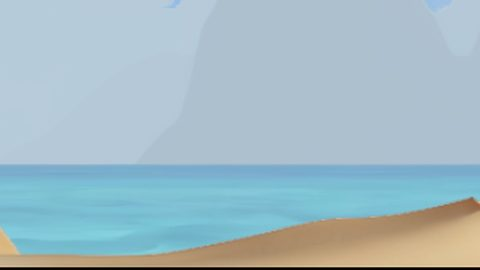
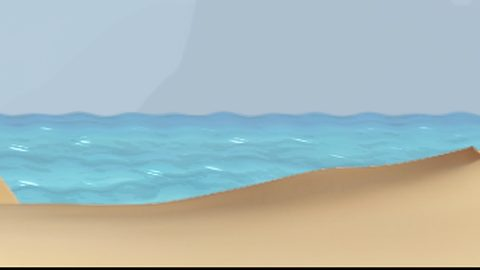
Anim lab: its first view the three detail levels a game may pick, its sliders at Simon's numbers (r462)
Simon on r462: MIRROR's strength 0.15 by default, and the first view
showing what ships: high SWELL + MIRROR + GLINT, medium SWELL + GLINT,
off the painting as it is (the sea an IMAGE layer). The other sliders
start at his r419 15:02 numbers (SWELL speed 0.35, the sun at 0.25,
0.45 wide). The views move up by one: the tools naming a view by index
follow. The runtime levels are r464, after MIRROR ships (r455).

Persona: Mira Ralax
Session: mira-fedora-parallax-239

diff --git a/core/browser-test/webapp/anim-lab.html b/core/browser-test/webapp/anim-lab.html
@@ -25,7 +25,10 @@
 		<summary>What this lab shows</summary>
 		<p id="anim-about">The shader animations r375 proposed for water, written as they would ship (GLSL ES 1.0,
 	sines only, in world units across the layer, so they run on across its tiles), drawn by the real reader compiled to
-	JavaScript. None is in the library yet: pick here, then each one picked is written three times (libGDX, Godot, jME).
+	JavaScript. Each one picked is written three times (libGDX, Godot, jME).
+	<b>Detail levels</b> (the first view, r462: what ships): the sea as a game would draw it at each detail level it
+	may pick, at the sliders' numbers (they start at Simon's, r419): high, SWELL + MIRROR + GLINT; medium, SWELL + GLINT;
+	off, nothing (the painting as it is).
 	<b>The sea</b> is r365's AI beach page, its sea a SHADER layer drawn four ways. <b>WAVE</b> is what ships today: whole
 	rows slide sideways. <b>SWELL</b>: the water moved by two crossing travelling waves, sideways and up and down, so the
 	painted crests bend. <b>GLINT</b>: sun glitter on the painting's own crests (r408): where a pixel is brighter

diff --git a/core/browser-test/launcher/jks/tools2d/parallax/browsertest/AnimLab.java b/core/browser-test/launcher/jks/tools2d/parallax/browsertest/AnimLab.java
@@ -46,15 +46,23 @@ public class AnimLab extends ApplicationAdapter implements LabKit.Clip
 	static final int PANEL_WIDTH = FogLab.FRAME_WIDTH, PANEL_HEIGHT = 200;
 
 	/** What a panel draws its animated layer through. */
-	static final int WAVE = 0, SWELL = 1, GLINT = 2, BOTH = 3, MIRROR = 4, MIRROR_OWN = 5, MIRROR_GLINT = 6;
+	static final int WAVE = 0, SWELL = 1, GLINT = 2, BOTH = 3, MIRROR = 4, MIRROR_OWN = 5, MIRROR_GLINT = 6, NONE = 7;
 	static final String[] EFFECT_NAMES = { "WAVE (ships today)", "SWELL", "GLINT", "SWELL + GLINT", "SWELL + MIRROR as you tuned it (fixed)",
-			"SWELL + MIRROR by the water's colour", "SWELL + MIRROR by the water's colour + GLINT" };
+			"SWELL + MIRROR by the water's colour", "SWELL + MIRROR by the water's colour + GLINT", "nothing" };
 
-	/** The views the choice picks: four panels, two one over the other, or one, close. Each: its hearts (indices into {@link #hearts}). */
-	static final String[] VIEWS = { "sea, all four", "sea: both", "sea: SWELL", "sea: GLINT", "sea: WAVE", "sea: SWELL + MIRROR", "sea: MIRROR or not" };
-	static final int[][] VIEW_HEARTS = { { 0, 1, 2, 3 }, { 3 }, { 1 }, { 2 }, { 0 }, { 7 }, { 4, 5, 6, 7 } };
+	/**
+	 * The views the choice picks: four panels, three, two one over the other, or one, close. Each: its hearts (indices
+	 * into {@link #hearts}). The first (r462, Simon: "should display what is getting exported, aka Nothing, Swell + mirror
+	 * + glint, and swell + glint ... (detail level) so someone using the parallax can hook up different quality level"):
+	 * the sea at each detail level a game may pick, at the sliders' numbers, which start at his (r419, 16 Oct 15:02).
+	 */
+	static final String[] VIEWS = { "detail levels", "sea, all four", "sea: both", "sea: SWELL", "sea: GLINT", "sea: WAVE", "sea: SWELL + MIRROR", "sea: MIRROR or not" };
+	static final int[][] VIEW_HEARTS = { { 8, 9, 10 }, { 0, 1, 2, 3 }, { 3 }, { 1 }, { 2 }, { 0 }, { 7 }, { 4, 5, 6, 7 } };
 	/** Each heart's effect, on the beach's sea. */
-	static final int[] HEART_EFFECTS = { WAVE, SWELL, GLINT, BOTH, SWELL, MIRROR, MIRROR_OWN, MIRROR_GLINT };
+	static final int[] HEART_EFFECTS = { WAVE, SWELL, GLINT, BOTH, SWELL, MIRROR, MIRROR_OWN, MIRROR_GLINT, MIRROR_GLINT, BOTH, NONE };
+	/** The detail levels' hearts, from {@link #FIRST_LEVEL}: their titles, the most a game draws first. */
+	static final int FIRST_LEVEL = 8;
+	static final String[] LEVEL_NAMES = { "high: SWELL + MIRROR + GLINT", "medium: SWELL + GLINT", "off: nothing" };
 	/** The sea strip's water: its bottom {@link #SEA_HORIZON} of its height (rows 300 to 383 of 384 in beach-sea.png), the rest clear. */
 	static final float SEA_HORIZON = 84 / 384f;
 	/**
@@ -71,7 +79,7 @@ public class AnimLab extends ApplicationAdapter implements LabKit.Clip
 	 * Where each heart's frame is held, as a fraction of the frame's height from its bottom, at the panel's middle: the
 	 * beach's sea; MIRROR's views lower, on the water under the horizon.
 	 */
-	static final float[] HEART_FOCUS = { 0.3f, 0.3f, 0.3f, 0.3f, 0.24f, 0.24f, 0.24f, 0.24f };
+	static final float[] HEART_FOCUS = { 0.3f, 0.3f, 0.3f, 0.3f, 0.24f, 0.24f, 0.24f, 0.24f, 0.24f, 0.24f, 0.24f };
 
 	private final Parallax_Heart[] hearts = new Parallax_Heart[HEART_EFFECTS.length];
 	private final ParallaxLayer[] animated = new ParallaxLayer[HEART_EFFECTS.length];
@@ -113,7 +121,7 @@ public class AnimLab extends ApplicationAdapter implements LabKit.Clip
 			// periods (r419): along() runs on only within the effect's period, one wavelength under WAVE, where SWELL's
 			// second wave (5 turns in 8 wavelengths across, 6 and 9 in 10 up) jumped every time the layer wrapped. Its
 			// port gives SWELL these periods of its own.
-			model.kind = Enum_LayerKind.SHADER;
+			model.kind = HEART_EFFECTS[i] == NONE ? Enum_LayerKind.IMAGE : Enum_LayerKind.SHADER;
 			model.shaderEffect = HEART_EFFECTS[i] != WAVE ? Enum_ShaderEffect.FOG : Enum_ShaderEffect.WAVE;
 			OrthographicCamera camera = new OrthographicCamera();
 			camera.setToOrtho(false, WORLD_WIDTH, WORLD_HEIGHT);
@@ -150,16 +158,16 @@ public class AnimLab extends ApplicationAdapter implements LabKit.Clip
 		waveSpeed = LabControls.slider(document, controls, "waveSpeed", "WAVE speed (world units/s)", 0, 2, 0.05f, 0.3f);
 		swellAmplitude = LabControls.slider(document, controls, "swellAmplitude", "SWELL amplitude (world units)", 0, 0.5f, 0.01f, 0.12f);
 		swellWavelength = LabControls.slider(document, controls, "swellWavelength", "SWELL wavelength (world units)", 0.25f, 6, 0.05f, 1.25f);
-		swellSpeed = LabControls.slider(document, controls, "swellSpeed", "SWELL speed (world units/s)", 0, 2, 0.05f, 0.3f);
+		swellSpeed = LabControls.slider(document, controls, "swellSpeed", "SWELL speed (world units/s)", 0, 2, 0.05f, 0.35f);
 		glintStrength = LabControls.slider(document, controls, "glintStrength", "GLINT strength (light added, 0..1.5)", 0, 1.5f, 0.05f, 0.5f);
 		glintSize = LabControls.slider(document, controls, "glintSize", "GLINT size (a glint's length, world units)", 0.2f, 3, 0.05f, 0.8f);
 		glintDensity = LabControls.slider(document, controls, "glintDensity", "GLINT density (how much of the crests is lit, 0.05..1.5)", 0.05f, 1.5f, 0.05f, 0.6f);
 		glintSpeed = LabControls.slider(document, controls, "glintSpeed", "GLINT twinkle (pulses a second: a glint fades in and out in place)", 0, 2, 0.05f, 0.3f);
 		glintCrest = LabControls.slider(document, controls, "glintCrest", "GLINT crest reach (world units: a crest is brighter than the water this far above and below; more, thicker lines)", 0.05f, 0.6f, 0.05f, 0.2f);
-		sunX = LabControls.slider(document, controls, "sunX", "sun's place (0..1 across the view: the glitter's column)", 0, 1, 0.05f, 0.5f);
-		sunWidth = LabControls.slider(document, controls, "sunWidth", "sun's width (of the view: 2 lights it all)", 0.05f, 2, 0.05f, 0.3f);
+		sunX = LabControls.slider(document, controls, "sunX", "sun's place (0..1 across the view: the glitter's column)", 0, 1, 0.05f, 0.25f);
+		sunWidth = LabControls.slider(document, controls, "sunWidth", "sun's width (of the view: 2 lights it all)", 0.05f, 2, 0.05f, 0.45f);
 		Element mirrors = LabControls.section(document, controls, "MIRROR (the whole sea a mirror of the sky, like polished metal: views 'sea: SWELL + MIRROR' and 'sea: MIRROR or not')");
-		mirrorStrength = LabControls.slider(document, mirrors, "mirrorStrength", "strength (how much of the water is the mirrored sky: 1 all of it)", 0, 1, 0.05f, 0.5f);
+		mirrorStrength = LabControls.slider(document, mirrors, "mirrorStrength", "strength (how much of the water is the mirrored sky: 1 all of it)", 0, 1, 0.05f, 0.15f);
 		mirrorRelief = LabControls.slider(document, mirrors, "mirrorRelief", "relief (how much the painted waves bend the mirror, beside the swell)", 0, 3, 0.1f, 3);
 		mirrorShine = LabControls.slider(document, mirrors, "mirrorShine", "shine (contrast of the mirrored sky: 0 soft, 1 hard bright and dark facets, like polished metal)", 0, 1, 0.05f, 1);
 		mirrorTint = LabControls.slider(document, mirrors, "mirrorTint", "tint (how much the water's own colour tints the mirror, as a metal tints what it reflects: 0 a chrome mirror)", 0, 1, 0.05f, 1);
@@ -214,7 +222,8 @@ public class AnimLab extends ApplicationAdapter implements LabKit.Clip
 		{
 			int h = shown.length == 2 ? (k % 2 == 0 ? k / 2 : -1) : k;
 			boolean titled = h >= 0 && h < shown.length;
-			labels[k].setInnerText(titled ? "beach: " + EFFECT_NAMES[HEART_EFFECTS[shown[h]]] : "");
+			labels[k].setInnerText(!titled ? "" : shown[h] >= FIRST_LEVEL ? LEVEL_NAMES[shown[h] - FIRST_LEVEL]
+					: "beach: " + EFFECT_NAMES[HEART_EFFECTS[shown[h]]]);
 			// A chip over no panel is hidden, not a dark dash; it keeps its cell in the grid.
 			labels[k].getParentElement().getStyle().setProperty("visibility", titled || k == 0 ? "visible" : "hidden");
 		}
@@ -310,7 +319,8 @@ public class AnimLab extends ApplicationAdapter implements LabKit.Clip
 		@Override
 		public boolean begin(Batch batch, ParallaxLayer layer, float phase, float fogAmount, Color fogColor)
 		{
-			byShipped = layer != target;
+			// Nothing: the sea an IMAGE layer, drawn as the page draws it.
+			byShipped = layer != target || effect == NONE;
 			if (byShipped)
 				return shipped.begin(batch, layer, phase, fogAmount, fogColor);
 			ShaderProgram program = program(effect);

diff --git a/tools/r419-swell-loop/jumps.py b/tools/r419-swell-loop/jumps.py
@@ -2,8 +2,8 @@
 and one with its amplitude 0: their difference is what SWELL alone moves, and a swell that runs on changes that about
 as much every frame. A phase that jumps (along() wrapping where a wave is not a whole number of turns) stands far above
 its neighbours. Prints the median frame change and the frames past RATIO times it; exits 1 on any.
-    tools/anim-lab.sh --slider view=2 --clip SWELL.mp4
-    tools/anim-lab.sh --slider view=2 --slider swellAmplitude=0 --clip FLAT.mp4
+    tools/anim-lab.sh --slider view=3 --clip SWELL.mp4
+    tools/anim-lab.sh --slider view=3 --slider swellAmplitude=0 --clip FLAT.mp4
     python3 tools/r419-swell-loop/jumps.py SWELL.mp4 FLAT.mp4 --top 292 --bottom 402
 """
 import argparse

diff --git a/tools/r428-lab-chips/chips.py b/tools/r428-lab-chips/chips.py
@@ -19,7 +19,7 @@ LABS = [
     ("transfert", "transfert-lab.html", "transfertLabReady", "transfert", "pagePair", 2),
     ("effects-fog", "effects-lab.html?lab=fog", "effectsLabReady", "effects", "parallaxSet", 2),
     ("effects-floor", "effects-lab.html?lab=floor", "effectsLabReady", "effects", "parallaxSet", 1),
-    ("anim", "anim-lab.html", "animLabReady", "anim", "view", 6),
+    ("anim", "anim-lab.html", "animLabReady", "anim", "view", 7),
     ("clouds", "clouds-lab.html", "cloudsLabReady", "clouds", "view", 2),
 ]
 
